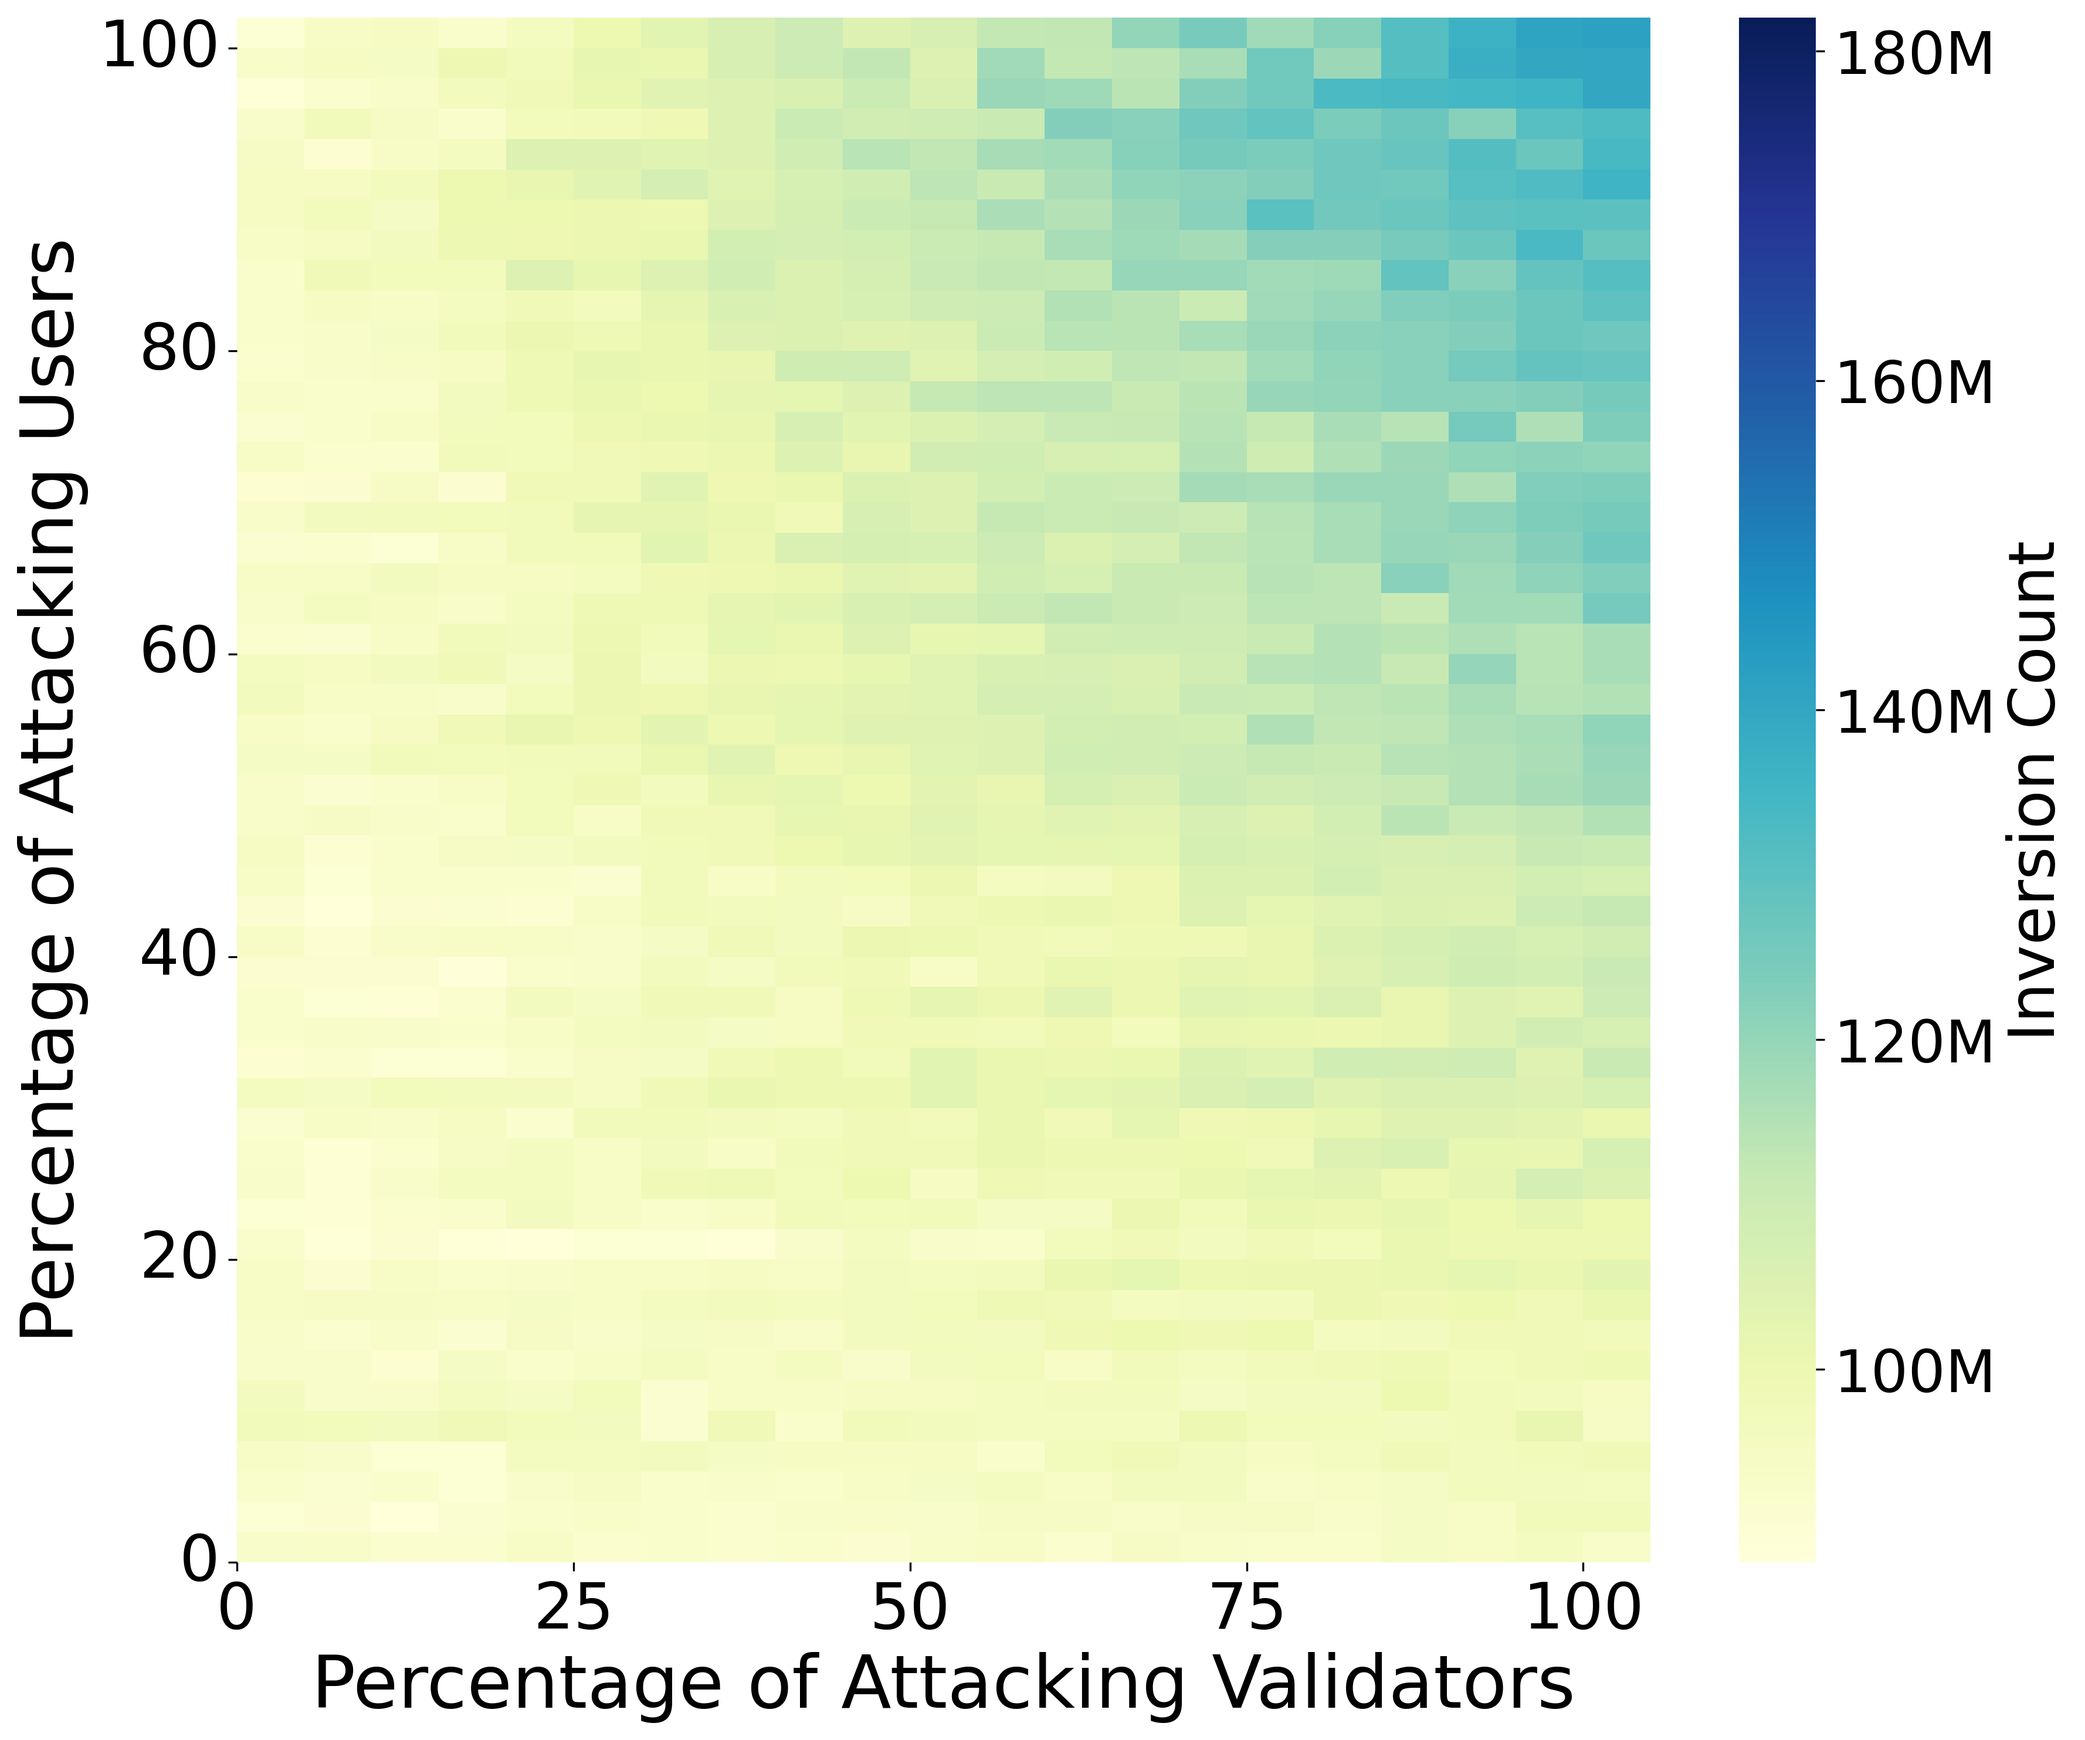
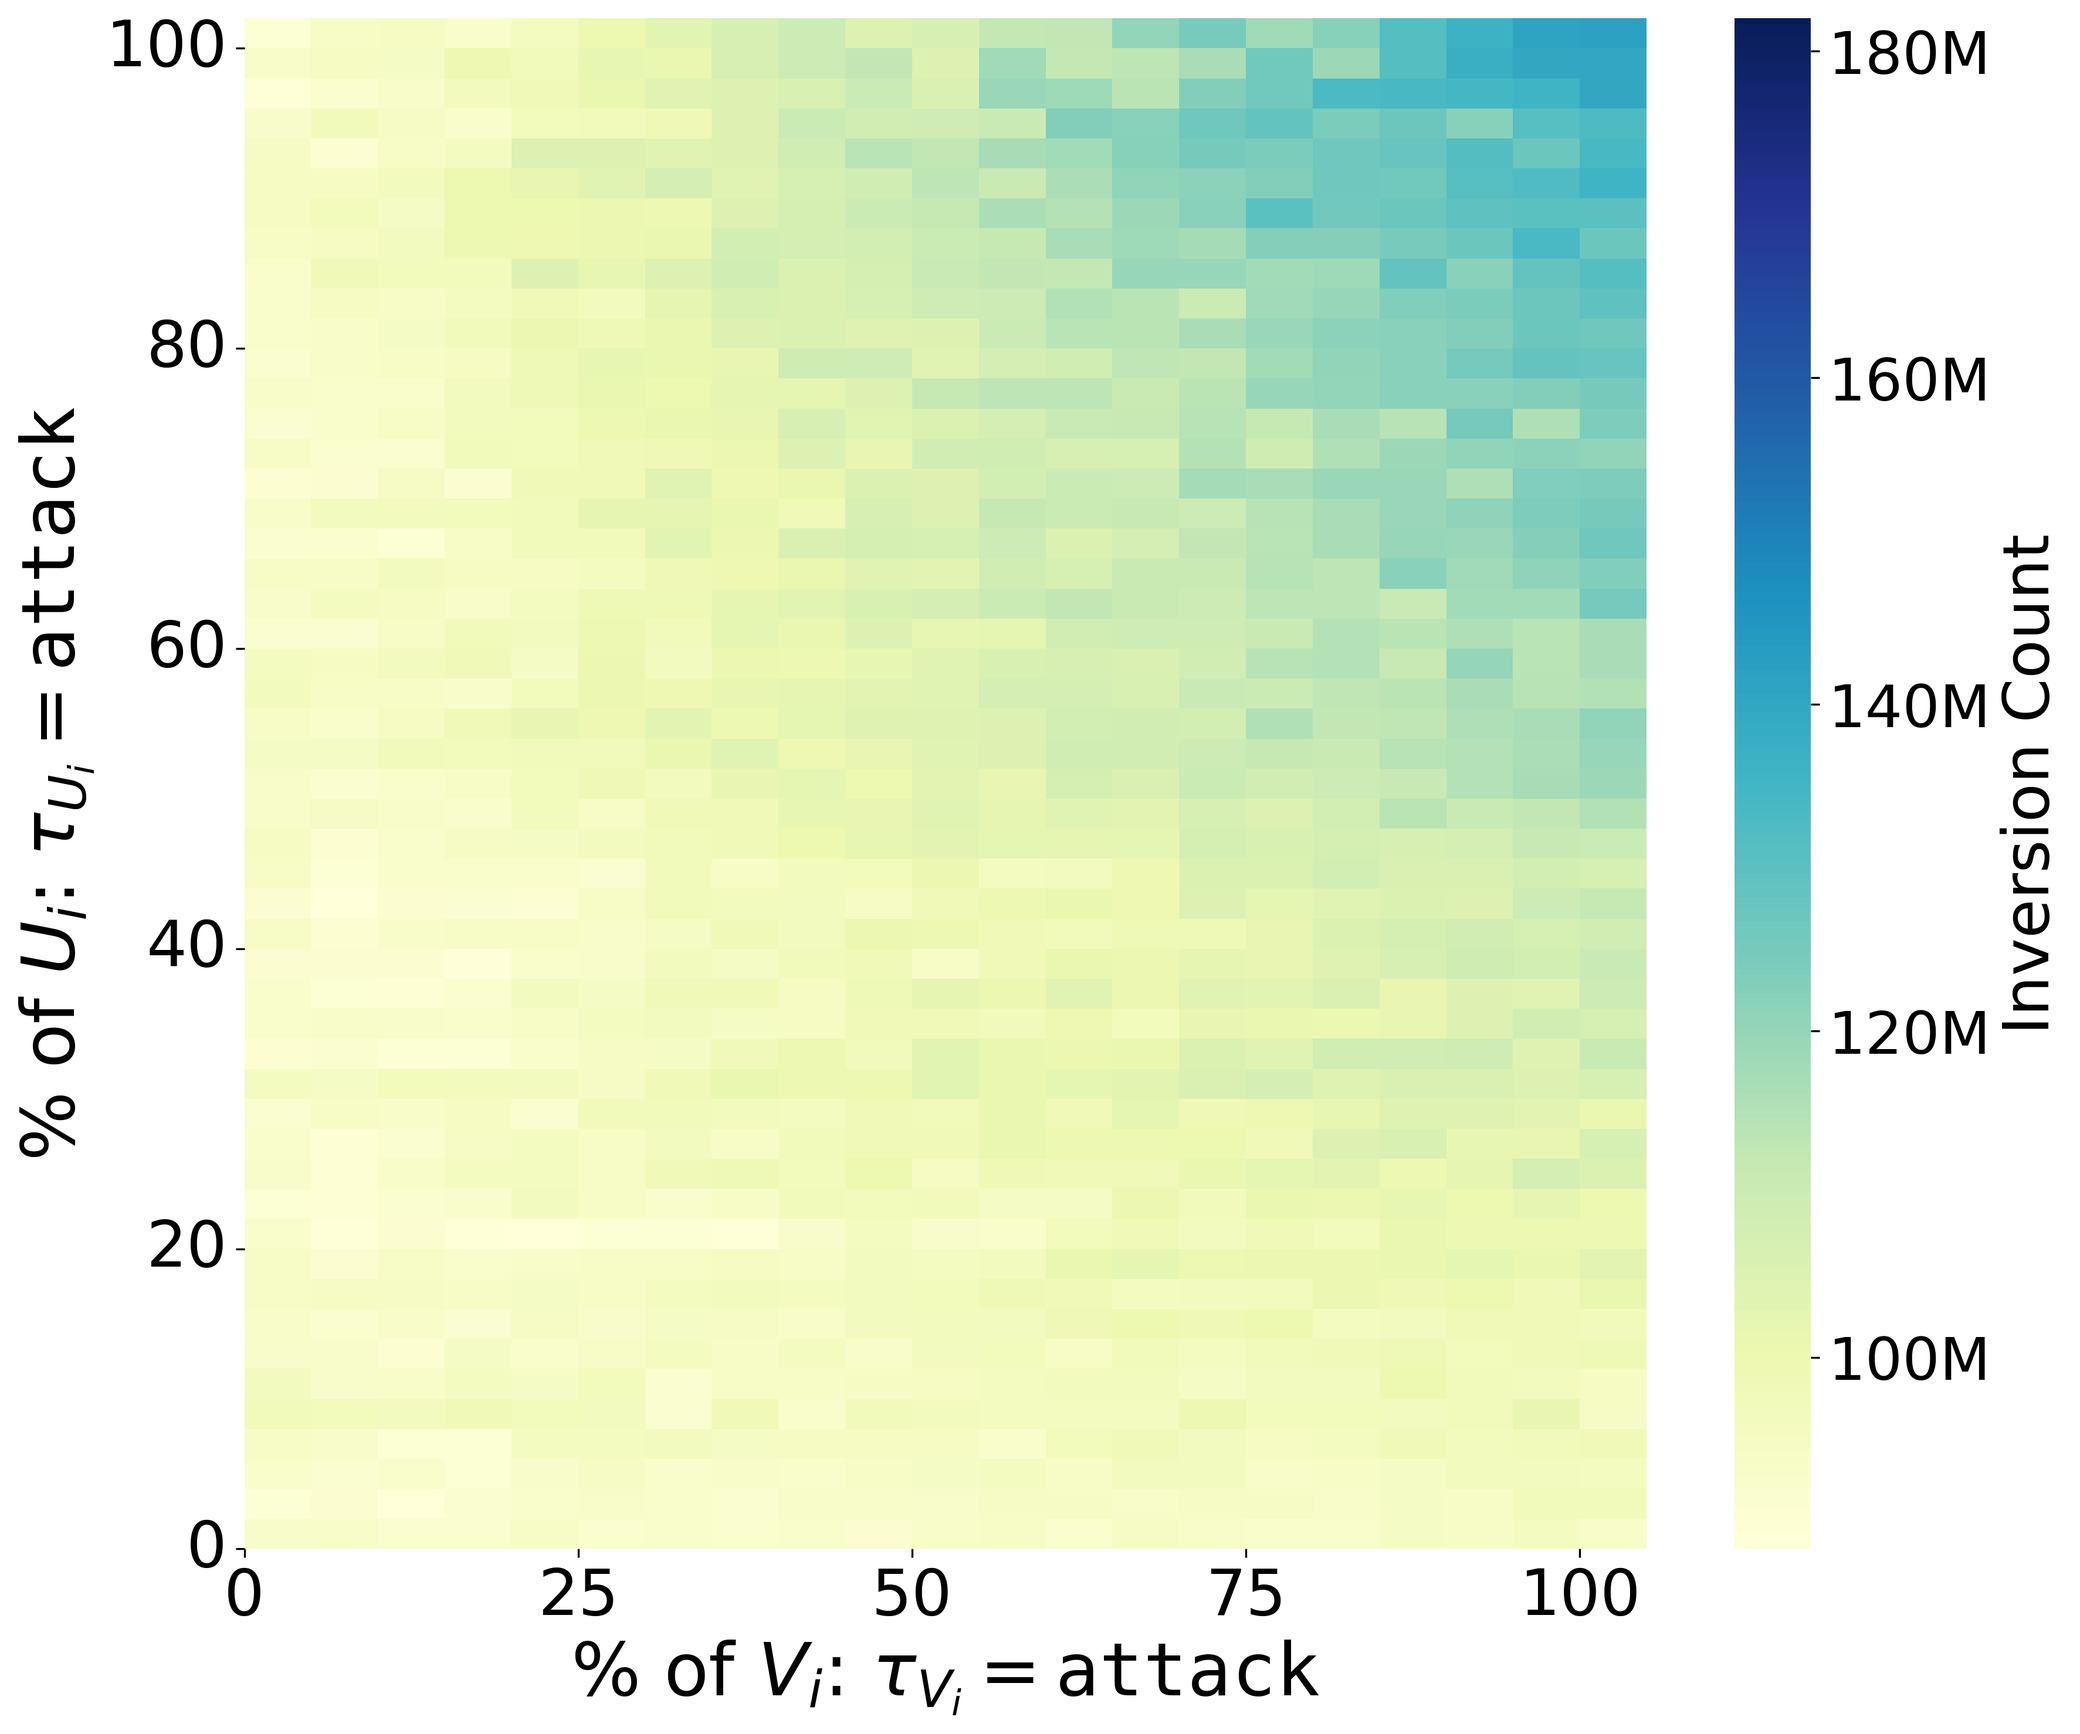
heatmap update

diff --git a/plots/ss/tx_order.py b/plots/ss/tx_order.py
@@ -124,7 +124,7 @@ def plot_heatmap(results, title, vmin, vmax, output_folder, x_label):
     plt.figure(figsize=(12, 10))
     sns.heatmap(df, annot=False, fmt=".0f", cmap="YlGnBu", cbar_kws={'label': "Inversion Count"}, vmin=vmin, vmax=vmax)
     plt.xlabel(x_label, fontsize=30)
-    plt.ylabel("Percentage of Attacking Users", fontsize=30)
+    plt.ylabel(r"$\%$ of $U_i$: $\tau_{U_i} = \mathtt{attack}$", fontsize=30)
     plt.xticks(ticks=[0, 5, 10, 15, 20], labels=[0, 25, 50, 75, 100], fontsize=26)
     plt.yticks(ticks=[0, 10, 20, 30, 40, 50], labels=[0, 20, 40, 60, 80, 100], fontsize=26)
 
@@ -162,7 +162,7 @@ if __name__ == "__main__":
     vmin, vmax = min(all_inversion_counts), max(all_inversion_counts)
 
     # Plot heatmap of results for PoS with "Validators" as x-axis label
-    plot_heatmap(pos_results, "Inversion Counts for PoS", vmin, vmax, output_folder, "Percentage of Attacking Validators")
+    plot_heatmap(pos_results, "Inversion Counts for PoS", vmin, vmax, output_folder, r"$\%$ of $V_i$: $\tau_{V_i} = \mathtt{attack}$")
 
     # Plot heatmap of results for PBS with "Builders" as x-axis label
-    plot_heatmap(pbs_results, "Inversion Counts for PBS", vmin, vmax, output_folder, "Percentage of Attacking Builders")
+    plot_heatmap(pbs_results, "Inversion Counts for PBS", vmin, vmax, output_folder, r"$\%$ of $B_i$: $\tau_{B_i} = \mathtt{attack}$")
